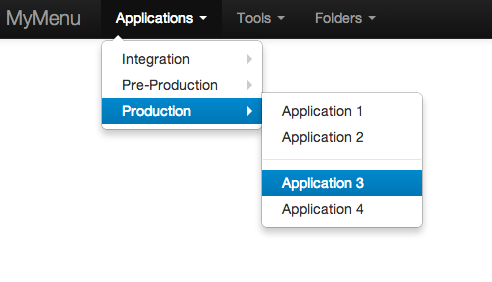
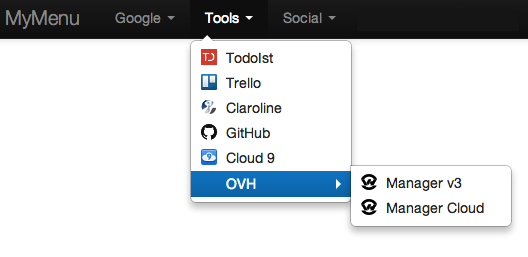
Update picture for github presentation

Changed region(s): [[0.0, 0.0311, 1.0, 0.9339], [0.2134, 0.0311, 0.7622, 0.0934]]

diff --git a/README.md b/README.md
@@ -6,26 +6,22 @@ This application simply converts a short JS code like this :
     menuTitle = "MyMenu";
 
     flatMenu = [
-        "Applications",
-        "- Integration",
-        "-- Application 1 : http://integration.myApp1.com",
-        "-- Application 2 : http://integration.myApp2.com",
-        "- Pre-Production",
-        "-- Application 1 : http://preprod.myApp1.com",
-        "-- Application 2 : http://preprod.myApp2.com",
-        "- Production",
-        "-- Application 1 : http://prod.myApp1.com",
-        "-- Application 2 : http://prod.myApp2.com",
-        "-- DIVIDER",
-        "-- Application 3 : http://prod.myApp3.com",
-        "-- Application 4 : http://prod.myApp4.com",
+        "Google",
+        "- Gmail : https://mail.google.com",
+        "- Agenda : https://www.google.com/calendar",
+        "- Drive : https://drive.google.com",
         "Tools",
-        "- Tool 1 : https://www.google.com/",
-        "- Tool 2 : https://www.yahoo.com/",
-        "- Tool 3 : https://duckduckgo.com/",
-        "Folders",
-        "- Folder 1 : #folder1",
-        "- Folder 2 : #folder2"
+        "- TodoIst : https://todoist.com/app?lang=fr",
+        "- Trello : https://trello.com/",
+        "- Claroline : http://claroline.dark-sides.com",
+        "- GitHub : https://github.com/",
+        "- Cloud 9 : https://c9.io/",
+        "- OVH",
+        "-- Manager v3 : https://www.ovh.com/managerv3/",
+        "-- Manager Cloud : https://www.ovh.com/manager/web/login.html",
+        "Social",
+        "- Facebook : https://www.facebook.com/",
+        "- Google+ : https://plus.google.com/",
     ];
 
 into a bootstrap menu like this :
